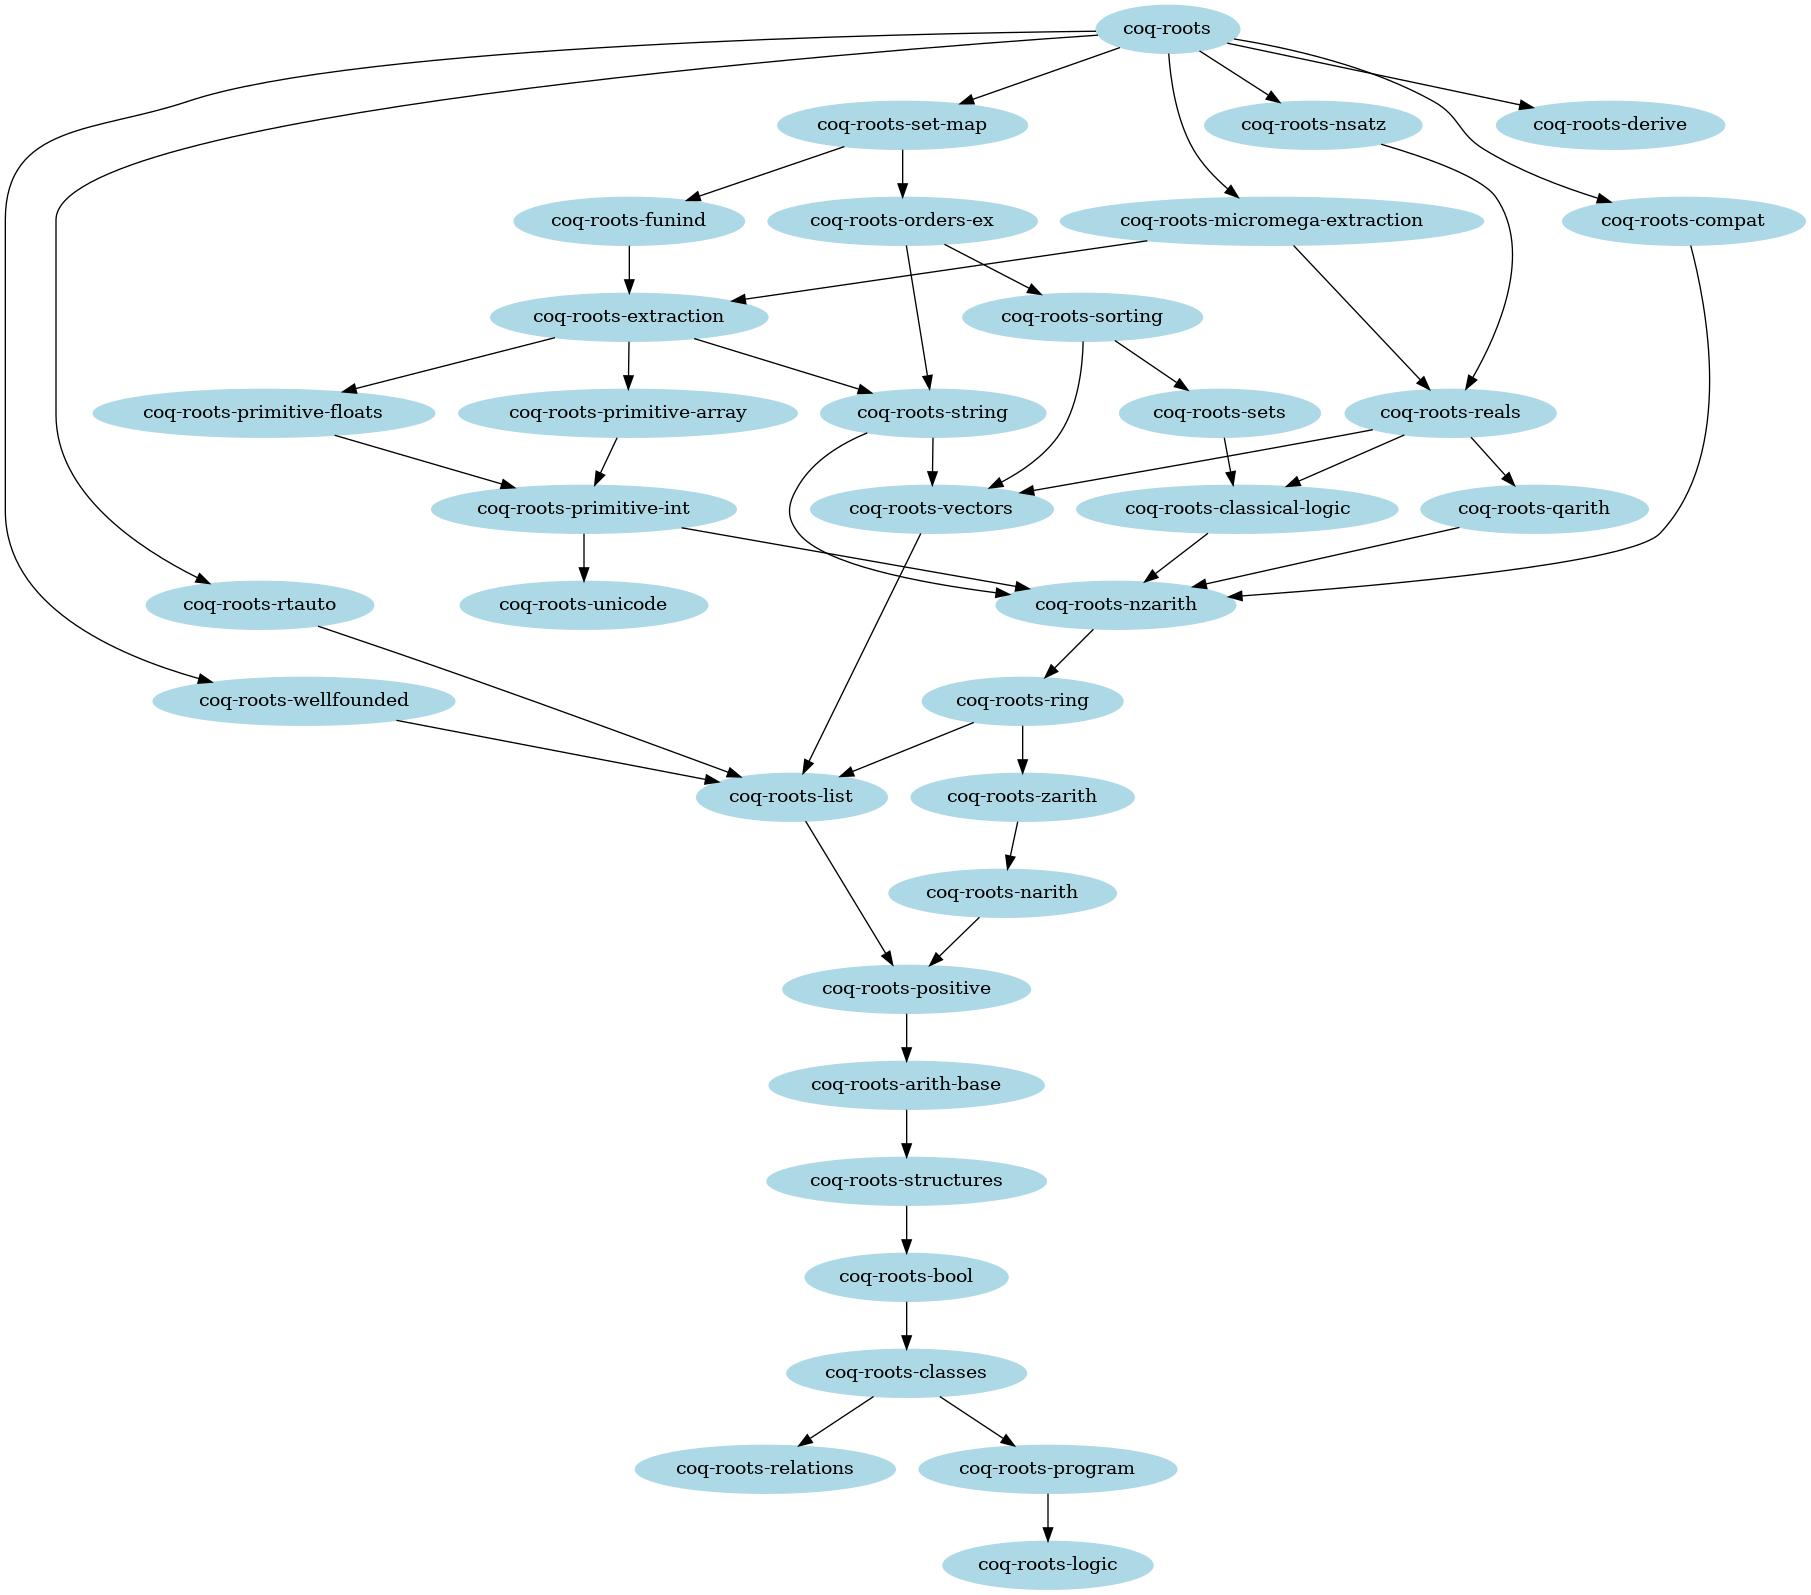
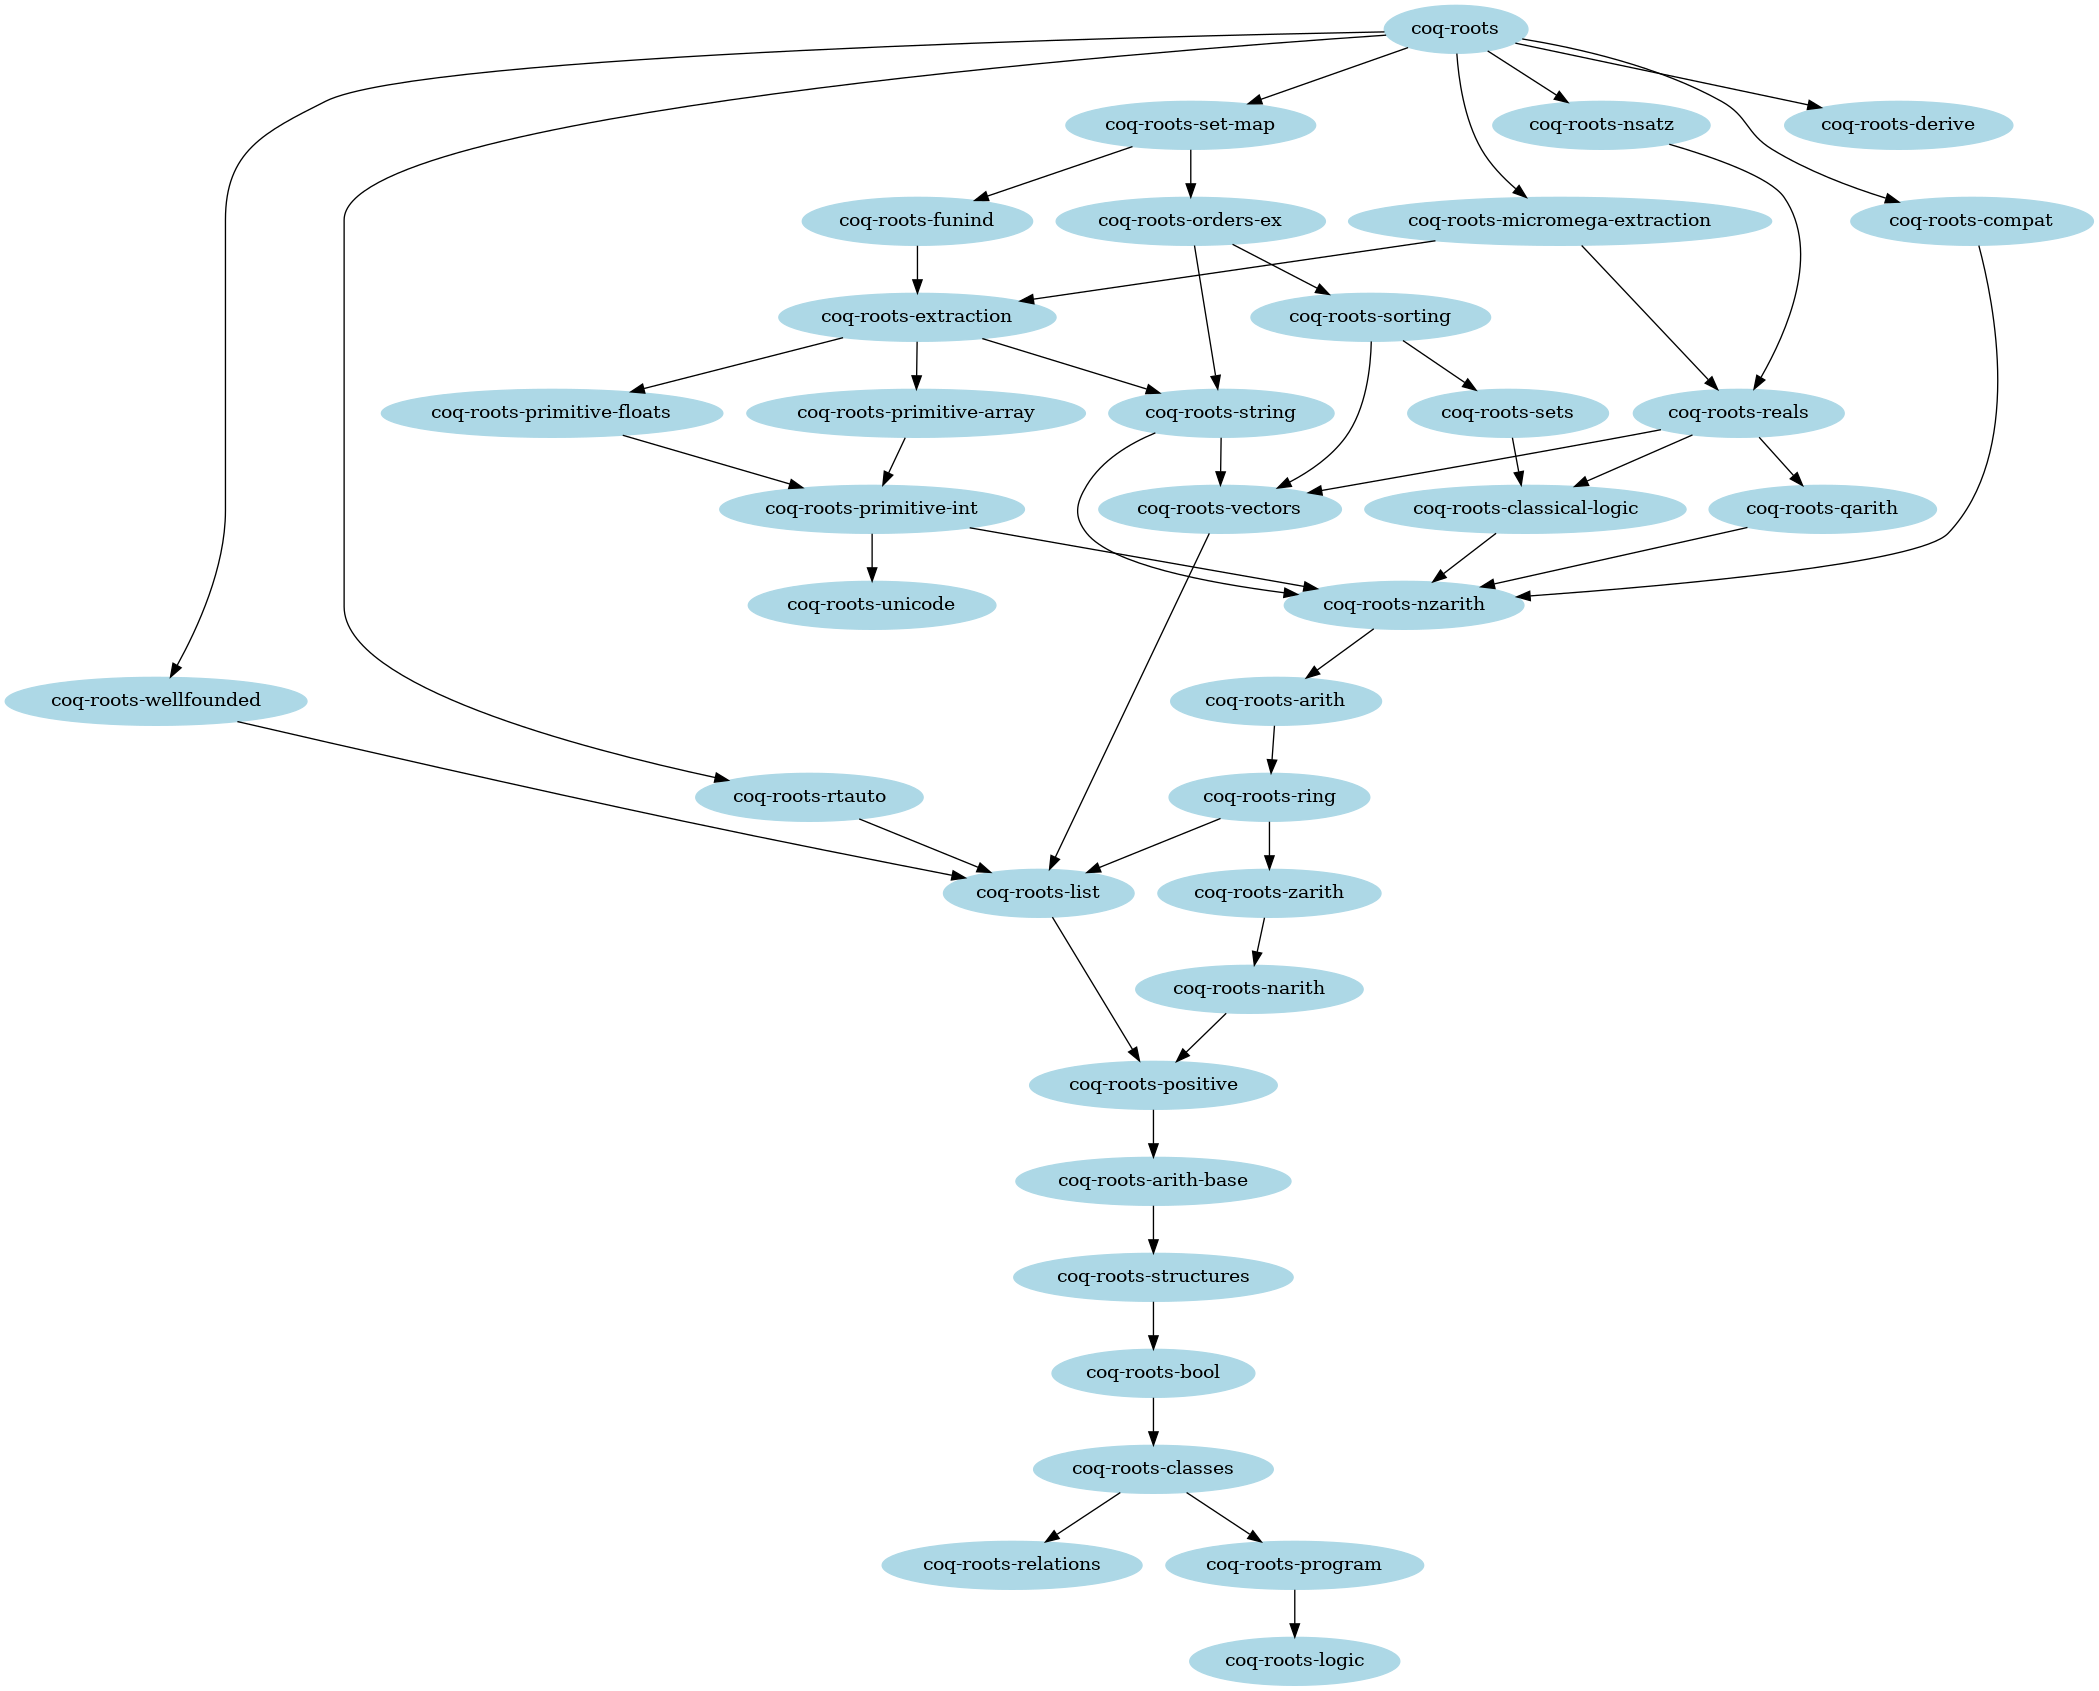
Separate arith

diff --git a/README.md b/README.md
@@ -37,6 +37,7 @@ install-package` to install it. `package` being one of
 * narith
 * zarith
 * ring
+* arith
 * nzarith
 * orders-ex
 * positive
